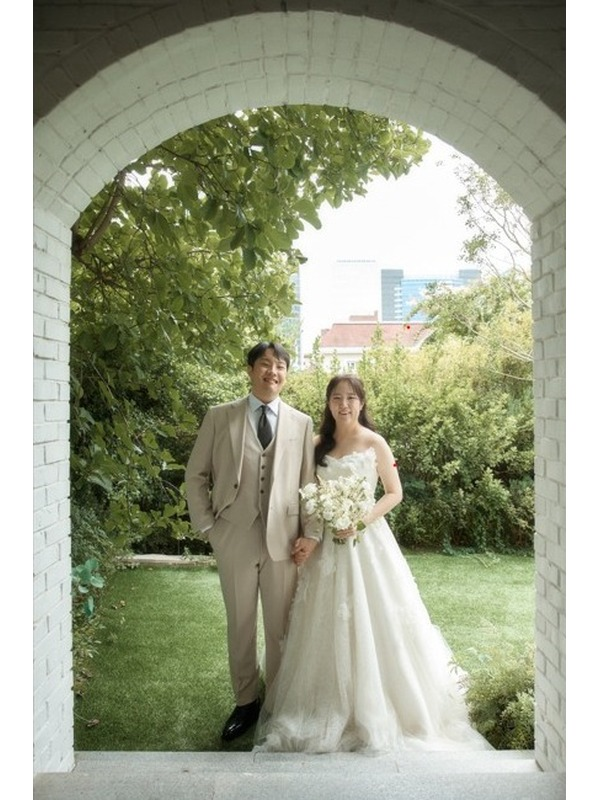
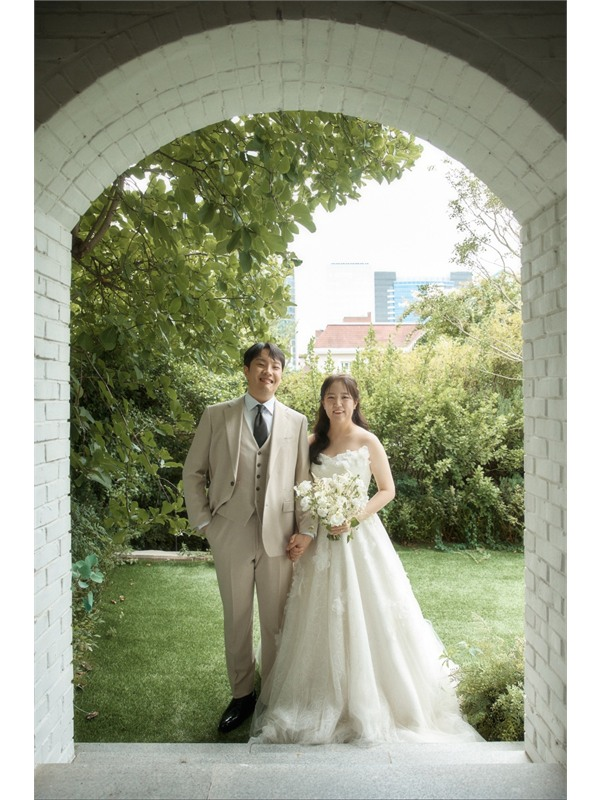
대문 사진을 원본 해상도로 바꿉니다.

diff --git a/index.html b/index.html
@@ -8,7 +8,7 @@
   <meta property="og:type" content="website">
   <meta property="og:title" content="백경동 ♥ 강소영 결혼합니다.">
   <meta property="og:description" content="2027년 2월 20일 토요일 오후 12시 20분, 왕십리 디노체컨벤션웨딩홀">
-  <meta property="og:image" content="https://bkdong93.github.io/kdbaik_mobile_wed/image/kakao-card.jpg">
+  <meta property="og:image" content="https://bkdong93.github.io/kdbaik_mobile_wed/image/kakao-card.jpg?v=2">
   <meta property="og:image:width" content="600">
   <meta property="og:image:height" content="800">
   <link rel="preconnect" href="https://fonts.googleapis.com">
@@ -661,7 +661,7 @@
     </div>
 
     <section class="hero" id="main">
-      <img class="hero-photo" src="image/cover.jpg" alt="백경동, 강소영">
+      <img class="hero-photo" src="image/KakaoTalk_20261015_213241307_07.jpg" alt="백경동, 강소영">
       <p class="script">We're getting<br>married!</p>
       <div class="hero-copy">
         <p class="hero-names">경동 소영</p>
@@ -1360,7 +1360,7 @@
         content: {
           title: "백경동 ♥ 강소영 결혼합니다.",
           description: "2027년 2월 20일 토요일 오후 12시 20분, 왕십리 디노체컨벤션웨딩홀",
-          imageUrl: PAGE + "image/kakao-card.jpg",
+          imageUrl: PAGE + "image/kakao-card.jpg?v=2",
           imageWidth: 600,
           imageHeight: 800,
           link
